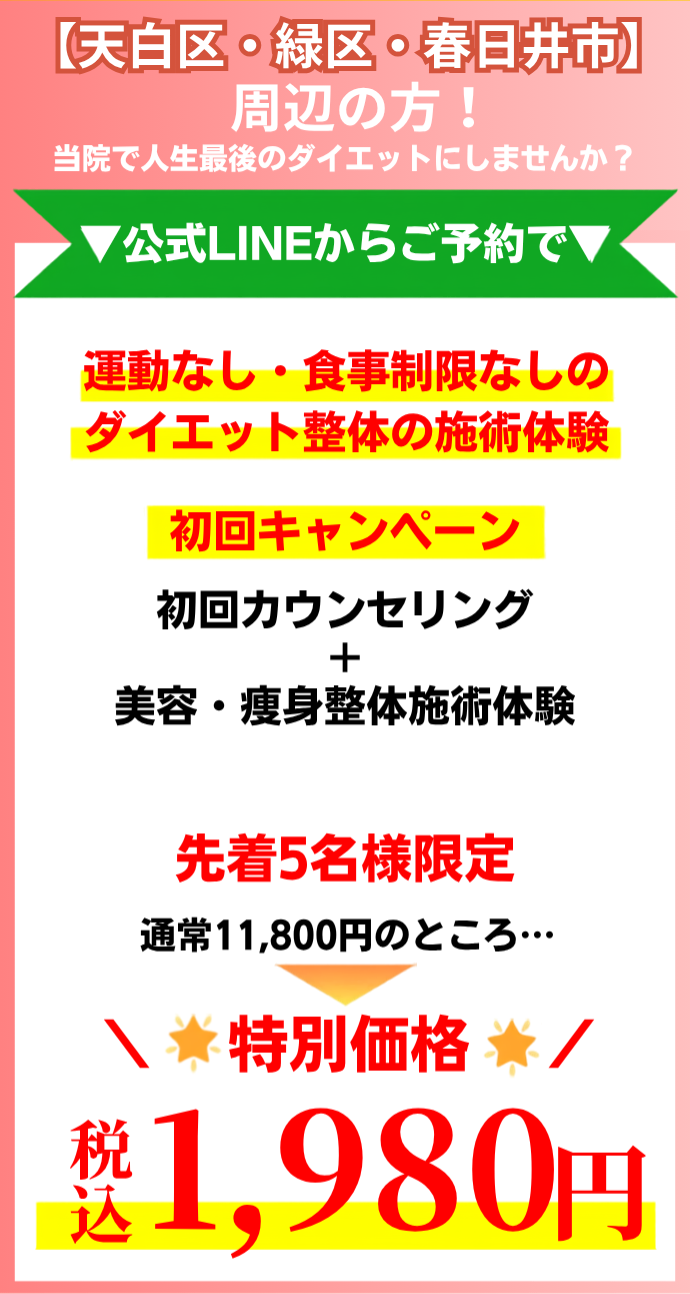
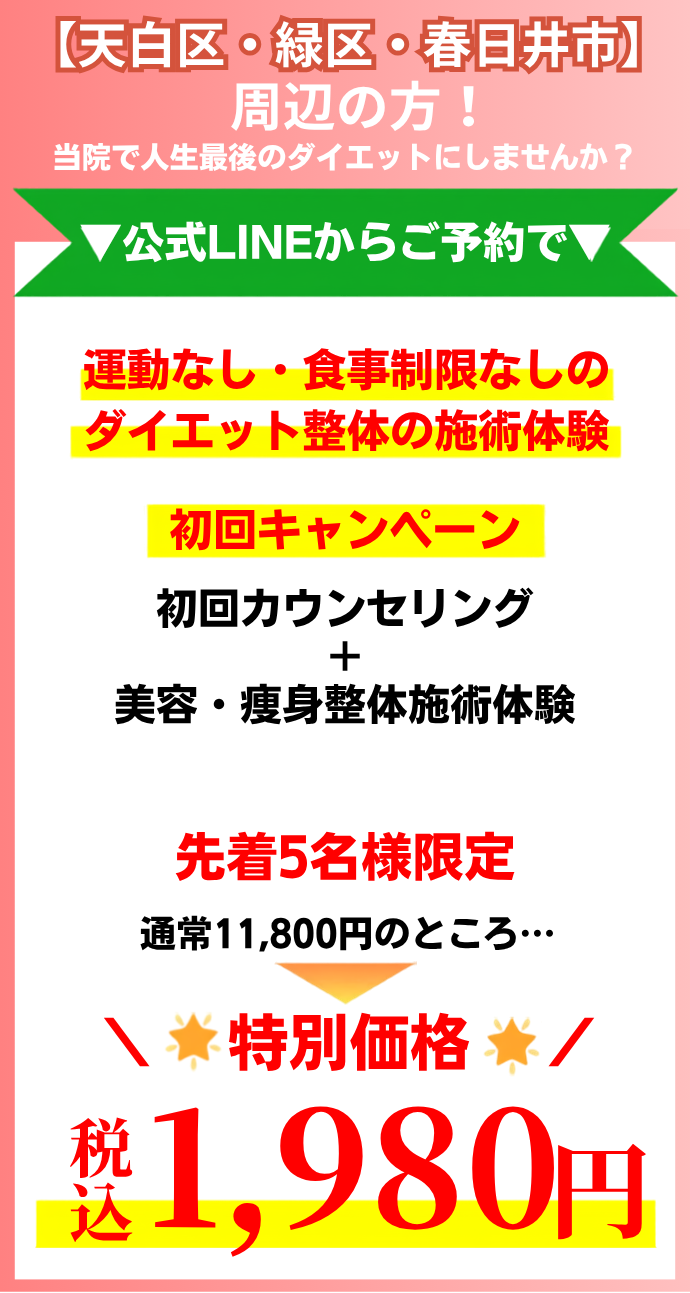
Replace price, conditions, last_diet, message and caution images with originals
Claude-Session: https://claude.ai/code/session_01D9N7WG3XaWjPArFwASqGj8

diff --git a/index.html b/index.html
@@ -30,7 +30,7 @@
       <img src="image/fv.png" width="690" height="1079" alt="無理な運動&食事制限なし -8kg以上痩せたいあなたへ たった3ヶ月で健康的な美しさを手にいれる 人生最後のダイエットを試してみませんか？">
       <img src="image/fv_sub.png" width="690" height="272" alt="カウンセリングの様子と院内の受付">
       <img src="image/before_after.png" width="695" height="654" alt="ビフォーアフター 体重-10.8kg・-29.1kg・-14.6kg・-14.9kg">
-      <img src="image/price.png" width="690" height="1294" alt="公式LINEからご予約で 初回キャンペーン 初回カウンセリング＋美容・痩身整体施術体験 先着5名様限定 通常11,800円のところ特別価格 税込1,980円" loading="lazy">
+      <img src="image/price.png" width="690" height="1293" alt="公式LINEからご予約で 初回キャンペーン 初回カウンセリング＋美容・痩身整体施術体験 先着5名様限定 通常11,800円のところ特別価格 税込1,980円" loading="lazy">
 
       <div class="cta">
         <p class="cta__note">↓こちらをタップすると予約できます↓</p>
@@ -106,7 +106,7 @@
       <img src="image/clinic.webp" width="690" height="1347" alt="野並駅から徒歩1分 ダイエットに特化した鍼灸整体院 多くの方からご好評いただいています" loading="lazy">
       <img src="image/flow.png" width="690" height="4195" alt="初回体験の流れ STEP1 来院〜受付 STEP2 カウンセリング STEP3 体質検査 STEP4 痩身整体施術 STEP5 食事サポート STEP6 計画作成" loading="lazy">
       <img src="image/caution.png" width="690" height="1500" alt="ただし1つ注意点が… 先着5名様限定 予約方法 1.公式LINEをお友だち追加 2.公式LINEで必要事項を入力 3.当院からの予約完了メッセージが届きます 4.予約日にご来院" loading="lazy">
-      <img src="image/price.png" width="690" height="1294" alt="公式LINEからご予約で 初回キャンペーン 初回カウンセリング＋美容・痩身整体施術体験 先着5名様限定 通常11,800円のところ特別価格 税込1,980円" loading="lazy">
+      <img src="image/price.png" width="690" height="1293" alt="公式LINEからご予約で 初回キャンペーン 初回カウンセリング＋美容・痩身整体施術体験 先着5名様限定 通常11,800円のところ特別価格 税込1,980円" loading="lazy">
 
       <div class="cta">
         <p class="cta__note">↓こちらをタップすると予約できます↓</p>
